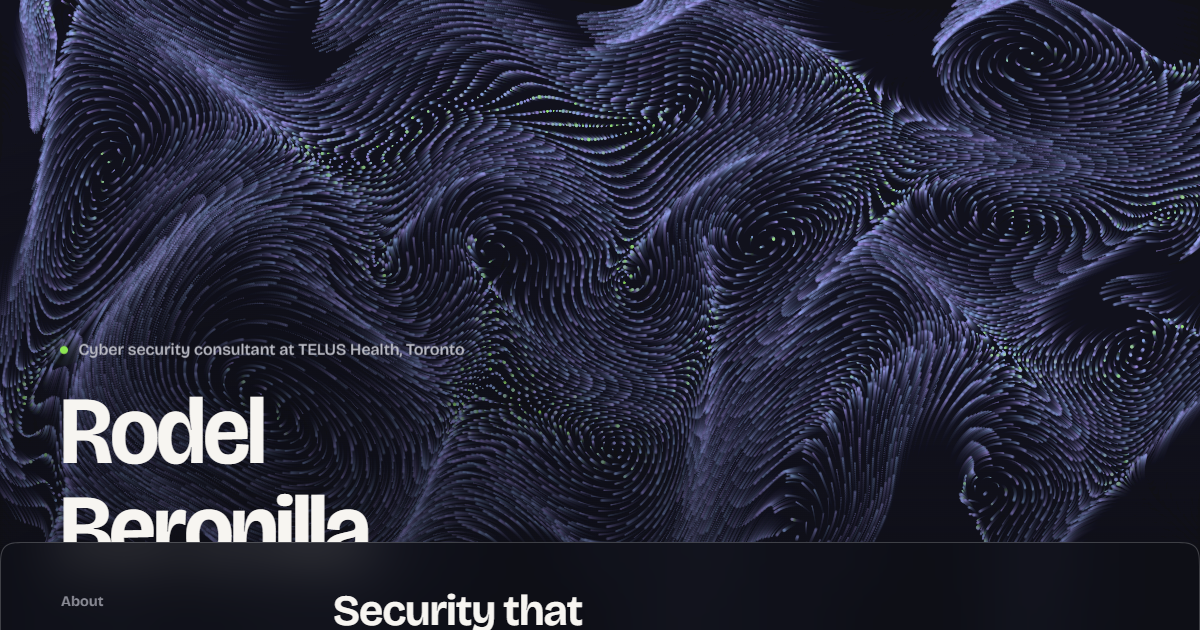
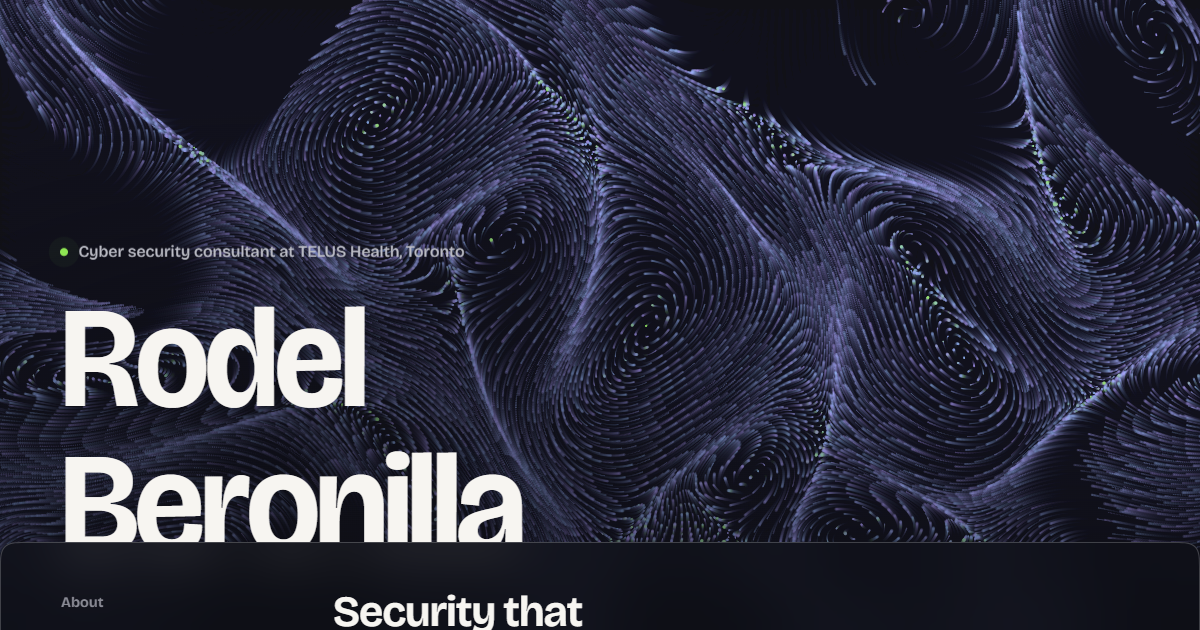
fix(site): laptop hint clearance and full-size share card
On short viewports the hints sit above the band the sheet overlaps, so
the Scroll hint is never covered; the first screen still fits 1366x650
exactly. The share card renders the name at display size regardless of
the render viewport's height.

Claude-Session: https://claude.ai/code/session_01HpsUhfHfpNmKf5GR6ja9Rb

diff --git a/site/style.css b/site/style.css
@@ -361,11 +361,11 @@ html[data-theme="light"] .i-moon { display: block; }
 /* Short viewports (laptops at 1366x650, landscape phones): the first screen still fits */
 @media (max-height: 720px) and (min-width: 46rem) {
   :root { --fs-name: clamp(3rem, 8vw, 6rem); }
-  .hero { padding-top: calc(env(safe-area-inset-top, 0px) + 4.75rem); }
-  .hero-inner { padding-bottom: 7.5rem; }
+  .hero { padding-top: calc(env(safe-area-inset-top, 0px) + 4.5rem); }
+  .hero-inner { padding-bottom: 7.6rem; }
   .meta { margin-bottom: 1.25rem; }
   .tag { margin: 1.25rem 0 1.5rem; }
-  .field-hint, .scroll-hint { bottom: 4.2rem; }
+  .field-hint, .scroll-hint { bottom: 6.2rem; }
 }
 
 /* Phone layout */
